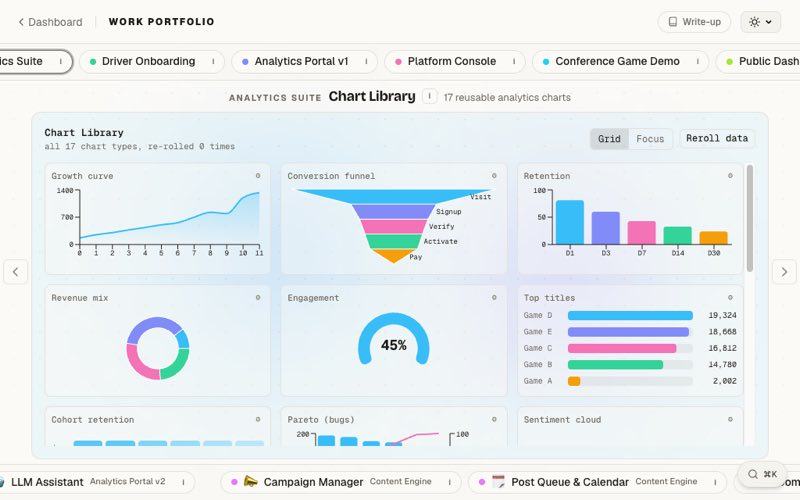
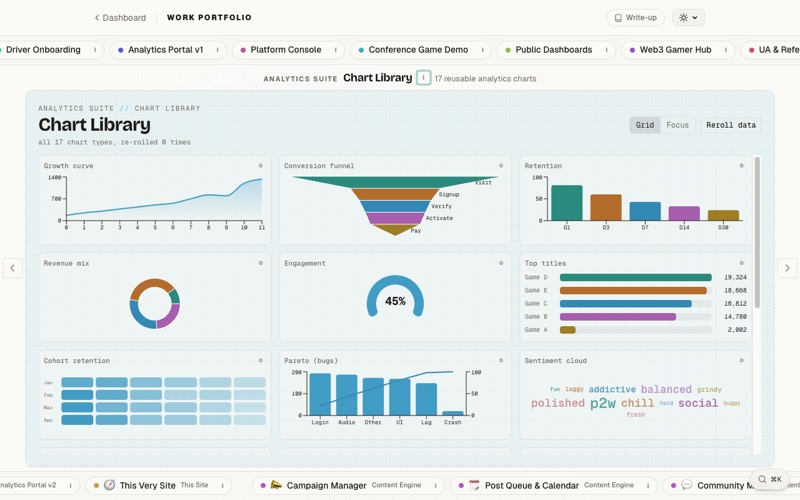
Refresh the work-portfolio light preview and changelog
Recapture the work-portfolio hub screenshot now that its demos render light, and record the surprise page, the fuller shelf, and the light-mode demo work in 7.5.0.

diff --git a/CHANGELOG.md b/CHANGELOG.md
@@ -6,6 +6,9 @@
 - **Made the scroll shelf sturdier.** The work section has a fixed height so switching the category filter no longer jumps the page, the shortlist footer sits above its own divider instead of overlapping the next section, and the section titles share one side inset so 01/02/03/04 line up. The field-notes bloom scales to the stage width so the whole phrase stays centred on resize, and it darkens in light mode to read against the pale stage.
 - **Linked the design system page out to npm and GitHub.** `/design-system` now carries "View on npm" and "Source on GitHub" next to the write-up link.
 - **Fixed the heatmap demo's duplicate React key.** Its columns were labelled `M T W T F`, so the two `T`s collided on the key `col-T`; they are now `Mo Tu We Th Fr`.
+- **Added a surprise page.** The "Surprise me" button opens `/surprise`, which toggles between spinning to a random feature and a creative, interactive list of every feature on the site, including the ones the discover reel leaves out.
+- **Filled out the project shelf.** Section 2 now travels past fourteen works with captured light and dark previews, and on small screens it side-scrolls as a swipeable row instead of stacking into a column.
+- **Light mode reaches the demos.** The particle lab and every work-portfolio demo (bar the retro-arcade game, which stays dark on purpose) now follow the theme through a shared `--wp-surface` and foreground-tinted overlays, instead of staying dark on a light page. The closing section swaps its cursor spotlight for a drifting blob background and gains a Calendly booking link.
 
 ## 2026-09-19 - version 7.4.2
 
